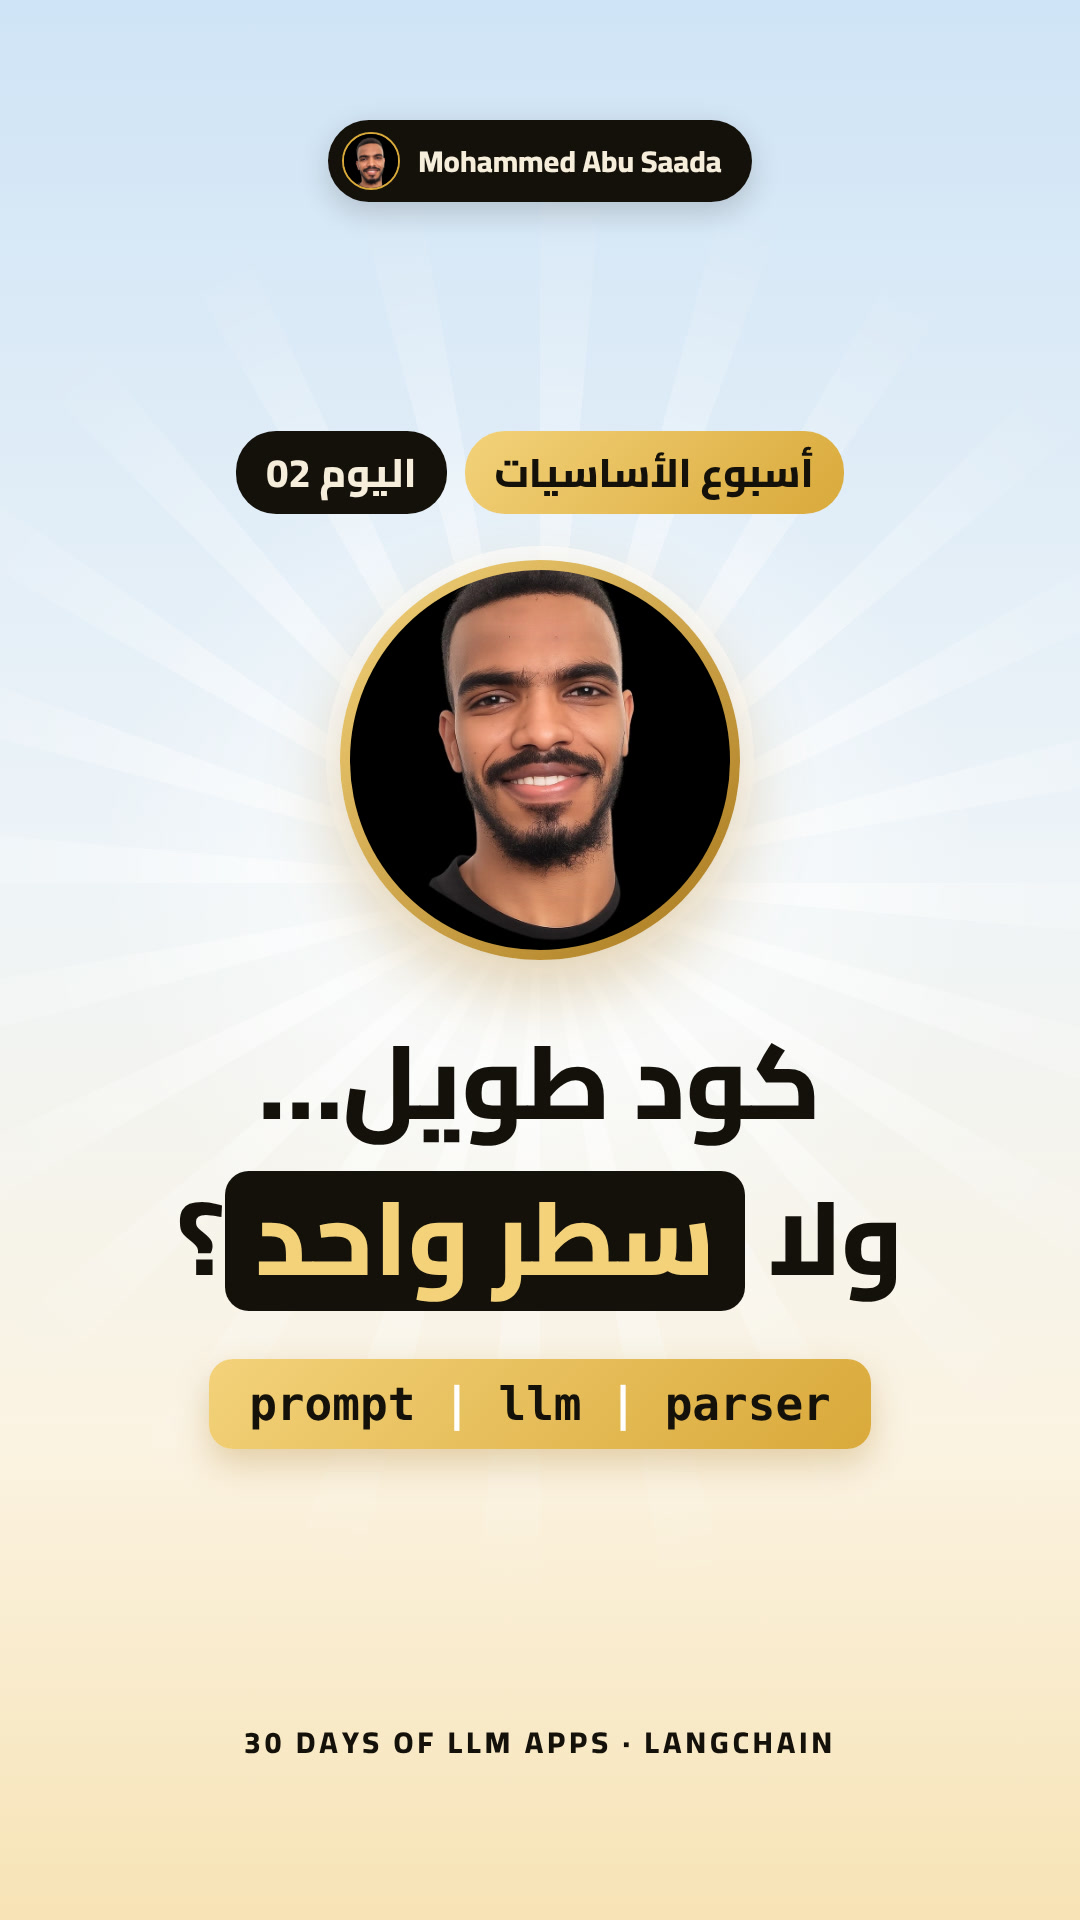
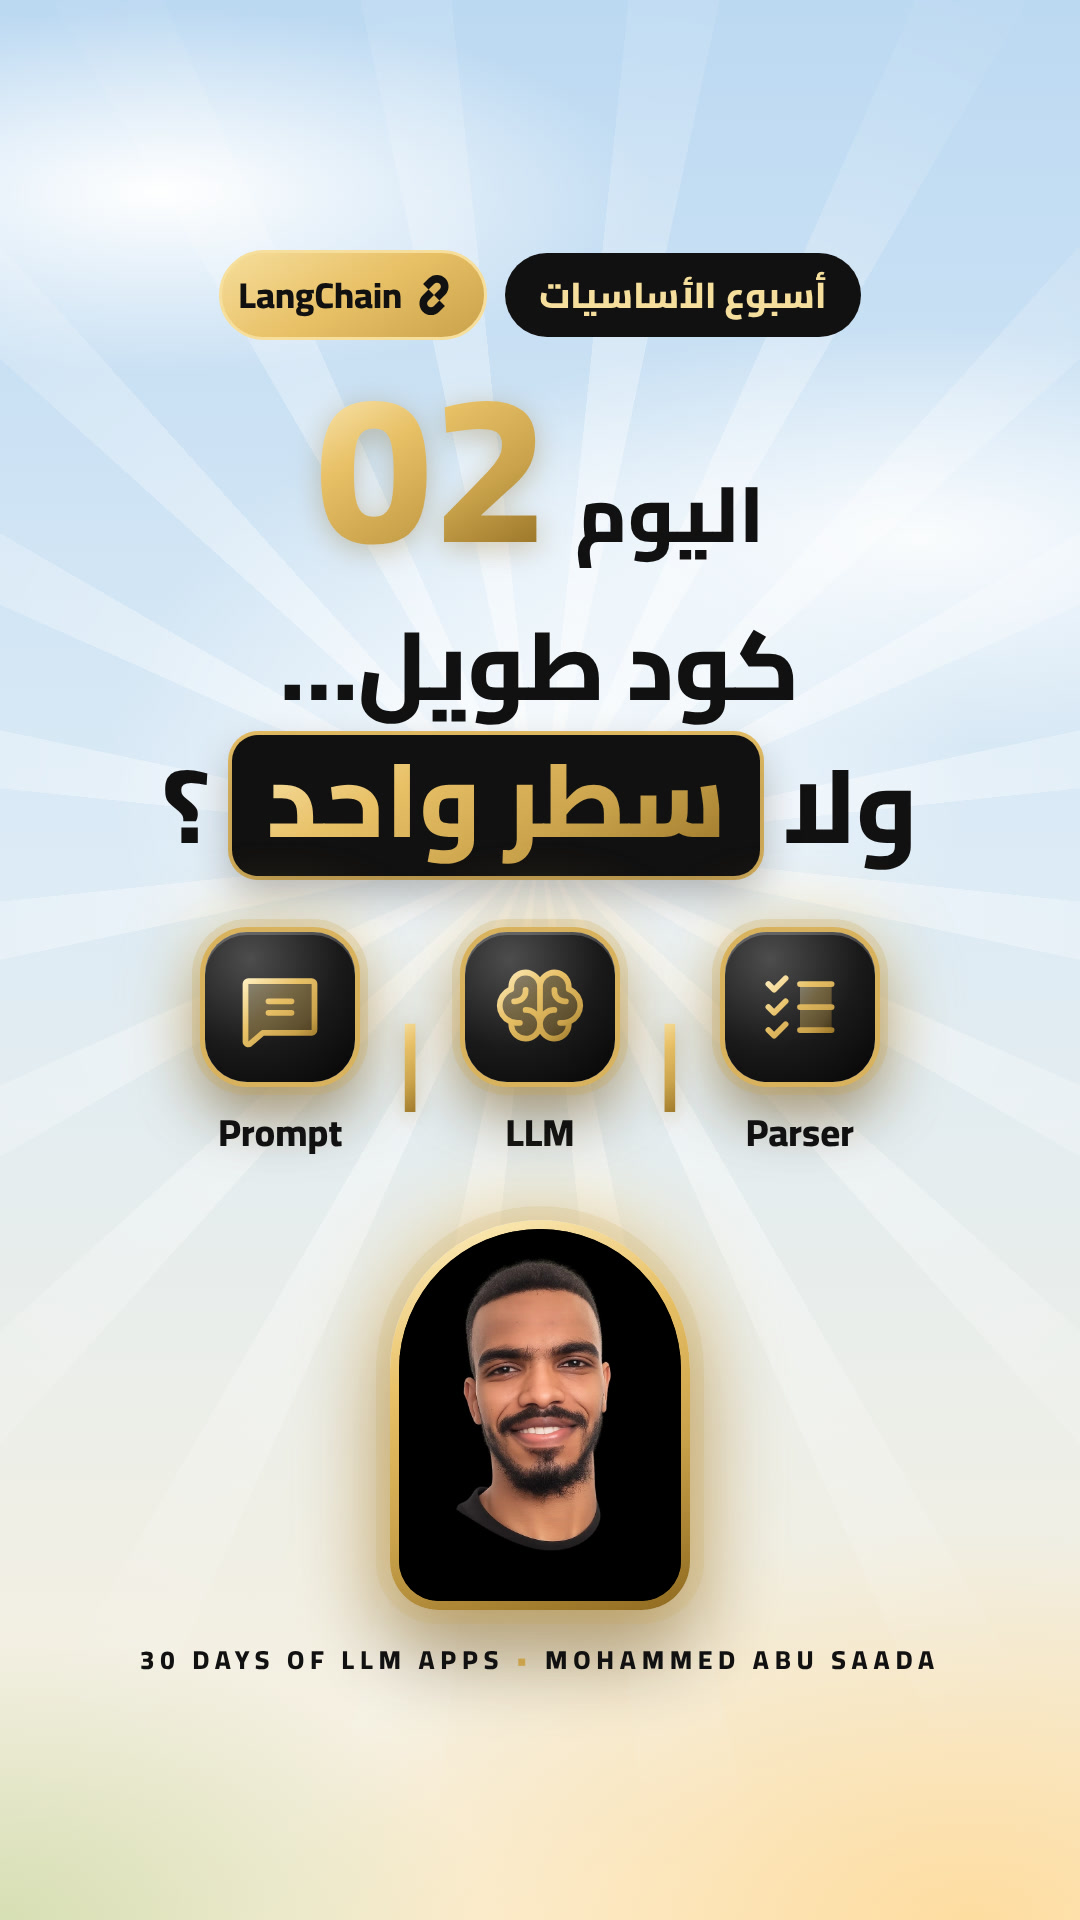
غلاف ريل اليوم الثاني: لايت مود بعناصر الريل (أشعة، قوس الصورة، مربعات لامعة)
Claude-Session: https://claude.ai/code/session_017Ad6jGGujNK2UzZYV9CW3E

diff --git a/tools/reels/src/Cover02.tsx b/tools/reels/src/Cover02.tsx
@@ -1,0 +1,73 @@
+import React from 'react';
+import {AbsoluteFill} from 'remotion';
+import {Arch, GOLD, GOLD_LT, INK, Icon, Logo, Sky, glossy, goldText} from './brand';
+
+// غلاف ريل اليوم 2 — لايت مود (سماء) بنفس عناصر الريل: أشعة، قوس الصورة، مربعات لامعة، تدرّج ذهبي.
+// المحتوى المهم داخل 1080×1440 بالنص (قصّ شبكة إنستغرام).
+const ltr: React.CSSProperties = {direction: 'ltr', unicodeBidi: 'isolate'};
+
+const Tile: React.FC<{size: number; children: React.ReactNode}> = ({size, children}) => (
+  <div style={{...glossy, width: size, height: size, borderRadius: size * 0.28}}>{children}</div>
+);
+
+const StaticRays: React.FC = () => (
+  <div style={{position: 'absolute', left: '50%', top: '44%', width: 2600, height: 2600, borderRadius: '50%', transform: 'translate(-50%,-50%) rotate(6deg)',
+    background: 'repeating-conic-gradient(from 0deg,rgba(255,255,255,.55) 0deg 6deg,transparent 6deg 18deg)',
+    WebkitMaskImage: 'radial-gradient(circle,#000 0,rgba(0,0,0,.6) 25%,transparent 55%)', maskImage: 'radial-gradient(circle,#000 0,rgba(0,0,0,.6) 25%,transparent 55%)'}} />
+);
+
+const Piece: React.FC<{icon: string; en: string}> = ({icon, en}) => (
+  <div style={{display: 'flex', flexDirection: 'column', alignItems: 'center', gap: 14}}>
+    <Tile size={150}><Icon name={icon} size={92} weight="duotone" /></Tile>
+    <div style={{fontWeight: 800, fontSize: 38, color: INK, ...ltr}}>{en}</div>
+  </div>
+);
+const Bar: React.FC = () => (
+  <div style={{fontFamily: 'monospace', fontWeight: 900, fontSize: 96, lineHeight: 1, marginBottom: 56, ...goldText, filter: 'drop-shadow(0 4px 10px rgba(143,106,31,.35))'}}>|</div>
+);
+
+export const Cover02: React.FC = () => (
+  <AbsoluteFill style={{fontFamily: 'Cairo', overflow: 'hidden'}}>
+    <Sky />
+    <StaticRays />
+    <AbsoluteFill style={{background: 'radial-gradient(ellipse 620px 520px at 50% 40%,rgba(255,255,255,.85) 0,rgba(255,255,255,0) 70%)'}} />
+
+    {/* المحتوى: بين 240 و 1680 */}
+    <div style={{position: 'absolute', top: 250, left: 0, right: 0, display: 'flex', flexDirection: 'column', alignItems: 'center'}}>
+      <div style={{display: 'flex', alignItems: 'center', gap: 18, direction: 'rtl'}}>
+        <div style={{fontWeight: 800, fontSize: 36, padding: '8px 34px', borderRadius: 99, background: INK, color: '#F6DE9C'}}>أسبوع الأساسيات</div>
+        <div style={{display: 'flex', alignItems: 'center', gap: 12, fontWeight: 800, fontSize: 36, padding: '8px 30px 8px 16px', borderRadius: 99,
+          background: 'linear-gradient(150deg,#F6DE9C,#E8C066 50%,#C9A24B)', color: INK, border: '3px solid #F6DE9C'}}>
+          <Logo name="langchain" size={40} color={INK} /><span style={ltr}>LangChain</span>
+        </div>
+      </div>
+
+      <div style={{display: 'flex', alignItems: 'baseline', gap: 26, direction: 'rtl', marginTop: 26}}>
+        <div style={{fontWeight: 800, fontSize: 78, color: INK}}>اليوم</div>
+        <div style={{fontWeight: 800, fontSize: 210, lineHeight: 0.95, ...ltr, ...goldText, filter: 'drop-shadow(0 6px 14px rgba(143,106,31,.35))'}}>02</div>
+      </div>
+
+      <div style={{direction: 'rtl', textAlign: 'center', fontWeight: 800, color: INK, marginTop: 18}}>
+        <div style={{fontSize: 96, lineHeight: 1.25}}>كود طويل…</div>
+        <div style={{display: 'inline-flex', alignItems: 'center', gap: 22, fontSize: 104, lineHeight: 1.2, marginTop: 10}}>
+          <span>ولا</span>
+          <span style={{background: INK, borderRadius: 26, padding: '2px 34px 14px', boxShadow: `0 18px 40px rgba(30,20,5,.3), 0 0 0 4px ${GOLD_LT}`}}><span style={goldText}>سطر واحد</span></span>
+          <span>؟</span>
+        </div>
+      </div>
+
+      <div style={{display: 'flex', alignItems: 'flex-end', gap: 26, marginTop: 56, ...ltr}}>
+        <Piece icon="chat-text" en="Prompt" /><Bar /><Piece icon="brain" en="LLM" /><Bar /><Piece icon="list-checks" en="Parser" />
+      </div>
+    </div>
+
+    {/* الصورة بقوس ذهبي، تحت بالنص */}
+    <div style={{position: 'absolute', top: 1220, left: 0, right: 0, display: 'flex', justifyContent: 'center'}}>
+      <Arch w={300} h={390} glow={0.8} />
+    </div>
+
+    <div style={{position: 'absolute', bottom: 236, left: 0, right: 0, textAlign: 'center', fontWeight: 800, fontSize: 26, letterSpacing: 6, color: INK, ...ltr}}>
+      30 DAYS OF LLM APPS<b style={{color: GOLD, margin: '0 12px'}}>•</b>MOHAMMED ABU SAADA
+    </div>
+  </AbsoluteFill>
+);

diff --git a/tools/reels/src/Root.tsx b/tools/reels/src/Root.tsx
@@ -1,5 +1,6 @@
 import React from 'react';
-import {Composition} from 'remotion';
+import {Composition, Still} from 'remotion';
+import {Cover02} from './Cover02';
 import {Reel0, REEL0_FRAMES} from './Reel0';
 import {DayReel, dayFrames} from './DayReel';
 import {EnergyReel, energyFrames} from './EnergyReel';
@@ -9,6 +10,7 @@ import {W, H} from './brand';
 
 export const Root: React.FC = () => (
   <>
+    <Still id="Cover02" component={Cover02} width={W} height={H} />
     <Composition id="Voice01" component={VoiceReel} defaultProps={{day: 1}} durationInFrames={voiceFrames(1)} fps={30} width={W} height={H} />
     <Composition id="Voice02" component={VoiceReel} defaultProps={{day: 2}} durationInFrames={voiceFrames(2)} fps={30} width={W} height={H} />
     <Composition id="Voice02Short" component={VoiceReel} defaultProps={{day: 2, variant: 's'}} durationInFrames={voiceFrames(2, 's')} fps={30} width={W} height={H} />
